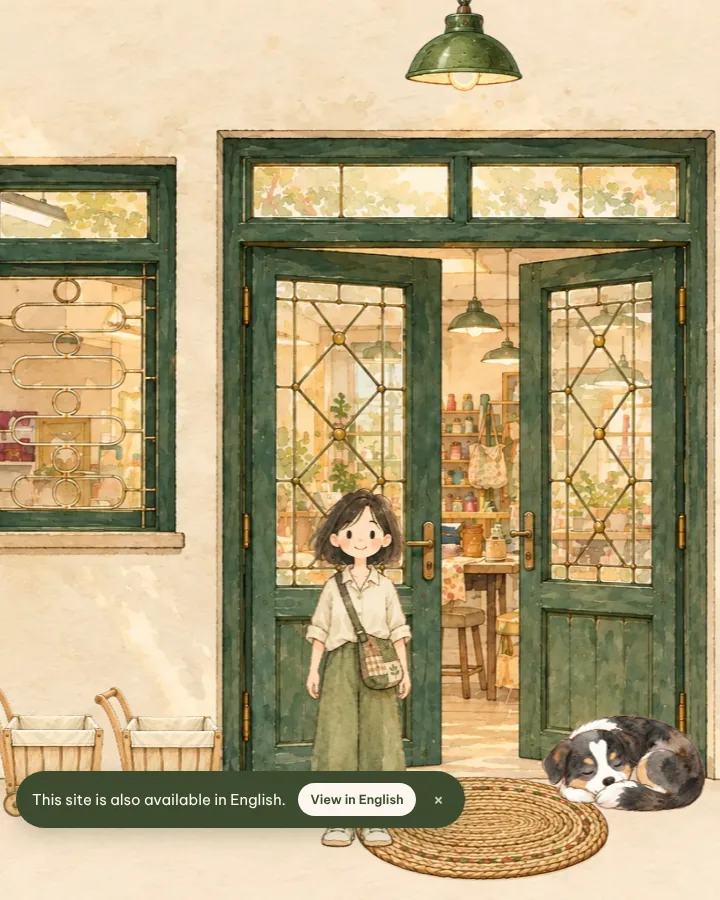
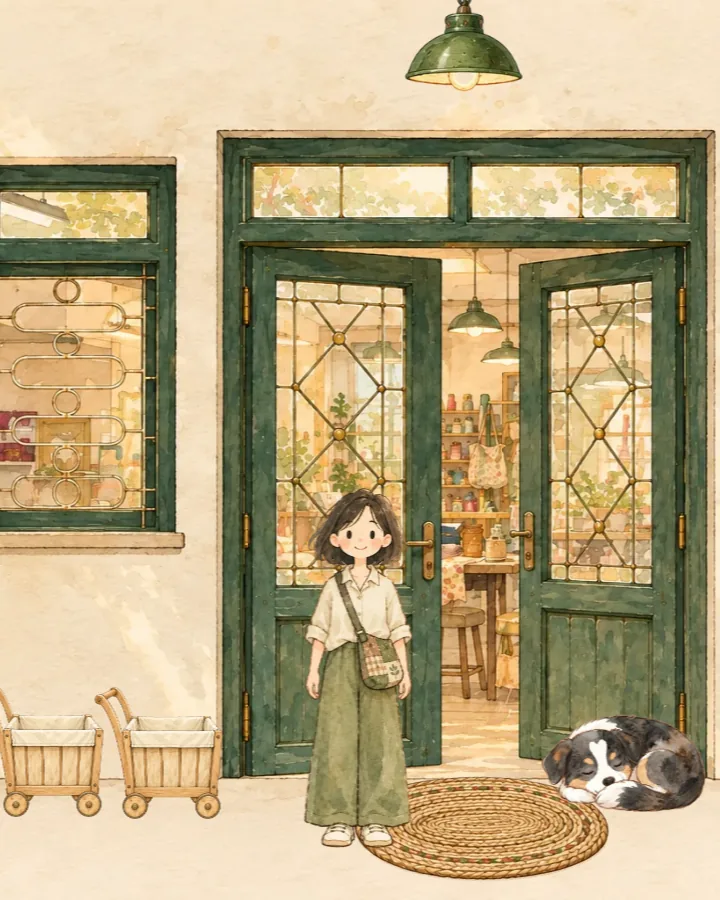
studio: the two preview pictures without the "available in English" bar
The picture a shared link shows and the one on the home page were taken by an
English-language browser, so the page's offer of English (.lang-hint) sat in
their bottom left corner. Both taken again.

tools/studio-preview.py now runs a Vietnamese browser, hides the bar, and
stops without saving a picture when anything still lies over the street
(it looks at the page every 24px).

og:image gets ?v=20261112: Facebook and Zalo keep a picture by its address,
and the first one may already have been fetched.

Claude-Session: https://claude.ai/code/session_01WkjEeZHerpmLQMy8dkWah3

Changed region(s): [[0.0, 0.84, 0.6722, 0.9333]]

diff --git a/studio.html b/studio.html
@@ -7,6 +7,8 @@
   <meta name="description" content="Dạo một vòng studio của Gem ngay trên màn hình: thử phụ kiện, tự ghép vải vụn thành món của riêng bạn, chơi phân loại rác cùng Udon và chọn quà.">
   <!-- Ảnh và chữ hiện khi link được chia sẻ (Facebook, Zalo, Messenger). URL ảnh
        phải tuyệt đối. Ảnh chụp từ cảnh ngoài phố: tools/studio-preview.py.
+       Ảnh đổi thì đổi số sau ?v= của og:image: Facebook và Zalo giữ ảnh theo
+       địa chỉ, địa chỉ mới thì mới lấy ảnh mới.
        Cố ý KHÔNG có og:url / rel=canonical: Facebook sẽ dẫn người bấm về địa chỉ
        đó và làm rơi ?d= (thiết kế được chia sẻ) lẫn ?src= (nguồn của đơn). -->
   <meta property="og:title" content="Gem Studio 2D · Gem Chạm Sắc">
@@ -14,7 +16,7 @@
   <meta property="og:type" content="website">
   <meta property="og:site_name" content="Gem Chạm Sắc">
   <meta property="og:locale" content="vi_VN">
-  <meta property="og:image" content="https://gemchamsac.com/images/studio/og-studio.jpg">
+  <meta property="og:image" content="https://gemchamsac.com/images/studio/og-studio.jpg?v=20261112">
   <meta property="og:image:width" content="1200">
   <meta property="og:image:height" content="630">
   <meta name="twitter:card" content="summary_large_image">

diff --git a/tools/studio-preview.py b/tools/studio-preview.py
@@ -15,7 +15,14 @@ It opens studio.html from a local server and lets the page read the published
 layout from Supabase as any visitor does (reads only, so it needs the network),
 hides the bars and labels, and takes the two pictures with the character
 standing at the door. Facebook and Zalo keep a link's picture for a long time:
-after it changes, ask Facebook's Sharing Debugger to "Scrape again".
+after it changes, change the number after og-studio.jpg?v= in studio.html (a new
+address makes them fetch it again) and ask Facebook's Sharing Debugger to
+"Scrape again".
+
+The browser is a Vietnamese one, and nothing may lie over the street when the
+picture is taken: the first pictures (11/2026) were taken by an English-language
+browser and carried the page's "This site is also available in English" bar in
+their corner. The script now stops instead of saving such a picture.
 
 Needs: pip install playwright pillow. Chromium: PLAYWRIGHT_BROWSERS_PATH or
 CHROMIUM=/path/to/chrome (the cloud sessions have /opt/pw-browsers/chromium).
@@ -37,12 +44,24 @@ SHOTS = [
     ('images/studio/og-studio.jpg', 1200, 630),
     ('images/studio/xem-truoc-mat-tien.webp', 720, 900),
 ]
-# No first-visit tips, no litter falling into the picture.
+# No first-visit tips, no litter falling into the picture, no offer of English.
 QUIET = ("localStorage.setItem('gem-guide', JSON.stringify({seen: {}, off: true}));"
-         "localStorage.setItem('gem-batngo', '0');")
+         "localStorage.setItem('gem-batngo', '0');"
+         "localStorage.setItem('gem-lang-hint', 'dismissed');")
 # The street alone: no bars, no labels, no tap boxes.
-HIDE = ('.st-top, .st-nav, .st-help-b, .gb-widget, .st-tip, .st-edge, .st-hot-label, .st-bubble, .st-loading'
+HIDE = ('.st-top, .st-nav, .st-help-b, .gb-widget, .st-tip, .st-edge, .st-hot-label, .st-bubble, .st-loading, .lang-hint'
         ' { display: none !important; }')
+# What lies on top of the street, sampled every 24px: anything that is not the
+# street itself (a bar, a toast, a hint added to the page later) would be in the picture.
+COVER = """() => {
+  const found = new Set();
+  for (let x = 8; x < innerWidth; x += 24) for (let y = 8; y < innerHeight; y += 24) {
+    const el = document.elementFromPoint(x, y);
+    if (!el || el.closest('#st-world') || el.matches('html, body, main.st, .st-stage')) continue;
+    found.add(el.tagName.toLowerCase() + (typeof el.className === 'string' && el.className.trim() ? '.' + el.className.trim().split(/\\s+/).join('.') : ''));
+  }
+  return [...found];
+}"""
 
 
 class Quiet(http.server.SimpleHTTPRequestHandler):
@@ -51,7 +70,8 @@ class Quiet(http.server.SimpleHTTPRequestHandler):
 
 
 async def shot(browser, w, h):
-    ctx = await browser.new_context(viewport={'width': w, 'height': h}, device_scale_factor=1, reduced_motion='reduce')
+    ctx = await browser.new_context(viewport={'width': w, 'height': h}, device_scale_factor=1, reduced_motion='reduce',
+                                    locale='vi-VN')
     await ctx.add_init_script(QUIET)
     page = await ctx.new_page()
     await page.goto(f'http://localhost:{PORT}/studio.html', wait_until='load')
@@ -62,6 +82,9 @@ async def shot(browser, w, h):
     await page.evaluate("window.dispatchEvent(new Event('resize'))")
     await page.wait_for_function("[...document.querySelectorAll('#st-world img')].every(i => i.complete && i.naturalWidth)", timeout=20000)
     await page.wait_for_timeout(800)
+    cover = await page.evaluate(COVER)
+    if cover:
+        raise SystemExit(f'{w} x {h}: something lies over the street and would be in the picture: {", ".join(cover)}')
     png = await page.screenshot()
     await ctx.close()
     return Image.open(io.BytesIO(png)).convert('RGB')

diff --git a/tools/check-studio.py b/tools/check-studio.py
@@ -2644,7 +2644,8 @@ async def launch_bits(browser, db):
     await pg.context.close()
     html = (ROOT / 'studio.html').read_text(encoding='utf-8')
     img = re.search(r'<meta property="og:image" content="([^"]+)"', html)
-    check(bool(img) and img[1].startswith('https://gemchamsac.com/') and (ROOT / img[1].replace('https://gemchamsac.com/', '')).exists()
+    # the address may end in ?v=…: a new number makes Facebook and Zalo fetch a changed picture
+    check(bool(img) and img[1].startswith('https://gemchamsac.com/') and (ROOT / img[1].replace('https://gemchamsac.com/', '').split('?')[0]).exists()
           and 'noindex' not in html and 'property="og:url"' not in html and 'rel="canonical"' not in html,
           f'studio.html shares with a picture that exists (absolute URL), is not noindex, names no canonical address ({img and img[1]})')
     for f in ('index.html', 'season-02.html'):
